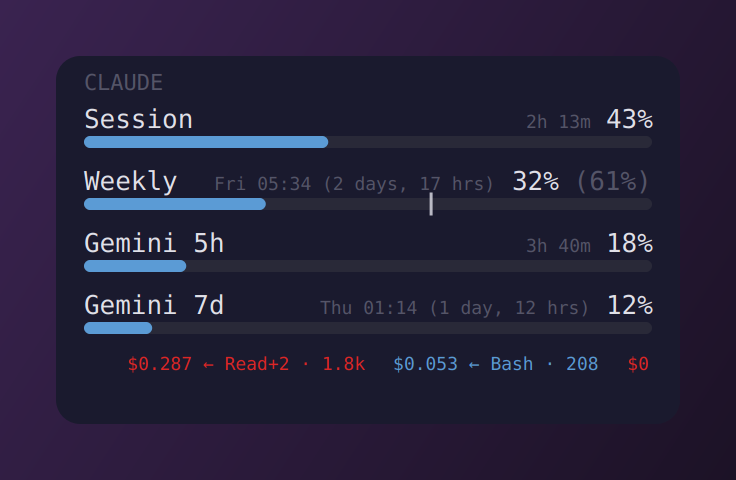
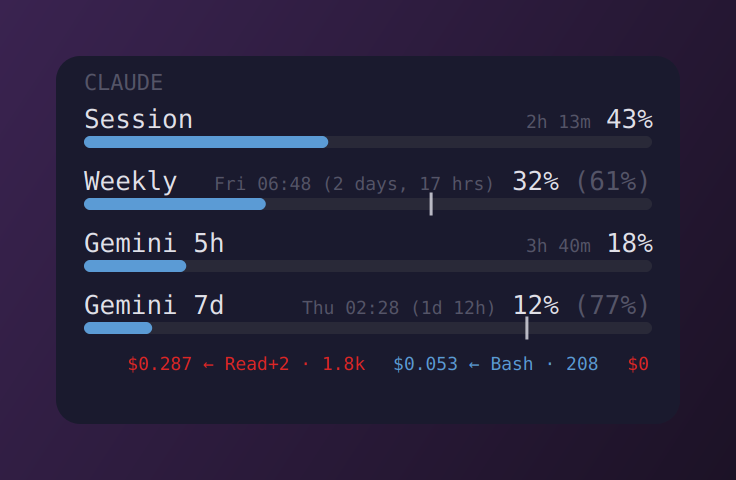
Show the even-pace target on the Gemini 7d row
The Gemini 7d row now reads like Claude's Weekly row: "5% (87%)" with a
tick on the bar at the share of Gemini's week already elapsed, computed
by the same _weekly_target() from Gemini's own weekly reset.

The longer "Gemini 7d" label left no room for the "(1 day, 13 hrs)"
tail of the reset label, so the overflow guard now tries a compact
"(1d 13h)" before dropping the tail entirely.

claude-widget.sh matched only "bin/python -m claude_usage"; an editable
uv tool install launches "bin/python3", which made start/status report
the running widget as missing.

Changed region(s): [[0.4062, 0.5938, 0.9062, 0.7188], [0.375, 0.375, 0.4375, 0.4062]]

diff --git a/claude_usage/overlay.py b/claude_usage/overlay.py
@@ -13,6 +13,7 @@ Interactions:
 
 from __future__ import annotations
 
+import re
 from datetime import datetime
 from typing import Any
 
@@ -177,6 +178,14 @@ def _format_reset_short(reset_ts: int) -> str:
         return f"{hours}h {minutes}m" if hours > 0 else f"{minutes}m"
     when = datetime.fromtimestamp(reset_ts).strftime("%a %H:%M")
     return f"{when} ({_format_days_hours(remaining)})"
+
+
+def _compact_reset_tail(reset_label: str) -> str:
+    """'Thu 02:27 (1 day, 13 hrs)' -> 'Thu 02:27 (1d 13h)'; other labels unchanged."""
+    m = re.fullmatch(r"(.*) \((\d+) days?, (\d+) hrs?\)", reset_label)
+    if not m:
+        return reset_label
+    return f"{m.group(1)} ({m.group(2)}d {m.group(3)}h)"
 
 
 def _burn_badge_text(alert) -> str:
@@ -1159,9 +1168,12 @@ class UsageOverlay(QWidget):
 
         # --- Gemini provider rows — only when the gemini provider is active ---
         if self._gemini_available:
-            for label, pct, reset_ts in (
-                ("Gemini 5h", self._gemini_session_pct, self._gemini_session_reset),
-                ("Gemini 7d", self._gemini_weekly_pct, self._gemini_weekly_reset),
+            # The 7d row gets the same even-pace target and bar tick as
+            # Claude's Weekly row.
+            for label, pct, reset_ts, target in (
+                ("Gemini 5h", self._gemini_session_pct, self._gemini_session_reset, None),
+                ("Gemini 7d", self._gemini_weekly_pct, self._gemini_weekly_reset,
+                 _weekly_target(self._gemini_weekly_reset)),
             ):
                 y2 = y2 + 15 * s + bar_h + 10 * s
                 self._draw_row(
@@ -1169,6 +1181,7 @@ class UsageOverlay(QWidget):
                     label=label,
                     pct=pct,
                     reset_label=_format_reset_short(reset_ts),
+                    target=target,
                 )
 
         # --- Ticker strip / receipt footer (below the weekly row) ---
@@ -1380,8 +1393,12 @@ class UsageOverlay(QWidget):
             p.setFont(_mono_font(int(font_small)))
             room = (w - pad_x - pct_width - 8 * self._scale) - (pad_x + label_w + 6 * self._scale)
             if rw > room and " (" in reset_label:
-                reset_label = reset_label.split(" (")[0]
+                # First try the compact tail "(1d 13h)", then drop it.
+                reset_label = _compact_reset_tail(reset_label)
                 rw = fm_small.horizontalAdvance(reset_label)
+                if rw > room:
+                    reset_label = reset_label.split(" (")[0]
+                    rw = fm_small.horizontalAdvance(reset_label)
             p.drawText(
                 QPointF(w - pad_x - pct_width - 8 * self._scale - rw, baseline),
                 reset_label,

diff --git a/tests/test_weekly_target.py b/tests/test_weekly_target.py
@@ -7,6 +7,7 @@ pytest.importorskip("PySide6")
 
 from claude_usage.overlay import (  # noqa: E402
     WEEK_SECONDS,
+    _compact_reset_tail,
     _format_days_hours,
     _format_reset_short,
     _weekly_target,
@@ -52,3 +53,12 @@ def test_reset_short_appends_remaining_when_over_a_day():
 def test_reset_short_unchanged_under_a_day():
     assert _format_reset_short(_in(2 * 3600 + 600)).endswith("m")
     assert "(" not in _format_reset_short(_in(2 * 3600 + 600))
+
+
+@pytest.mark.parametrize("label, expected", [
+    ("Thu 02:27 (1 day, 13 hrs)", "Thu 02:27 (1d 13h)"),
+    ("Fri 06:47 (2 days, 1 hr)", "Fri 06:47 (2d 1h)"),
+    ("2h 13m", "2h 13m"),
+])
+def test_compact_reset_tail(label, expected):
+    assert _compact_reset_tail(label) == expected
